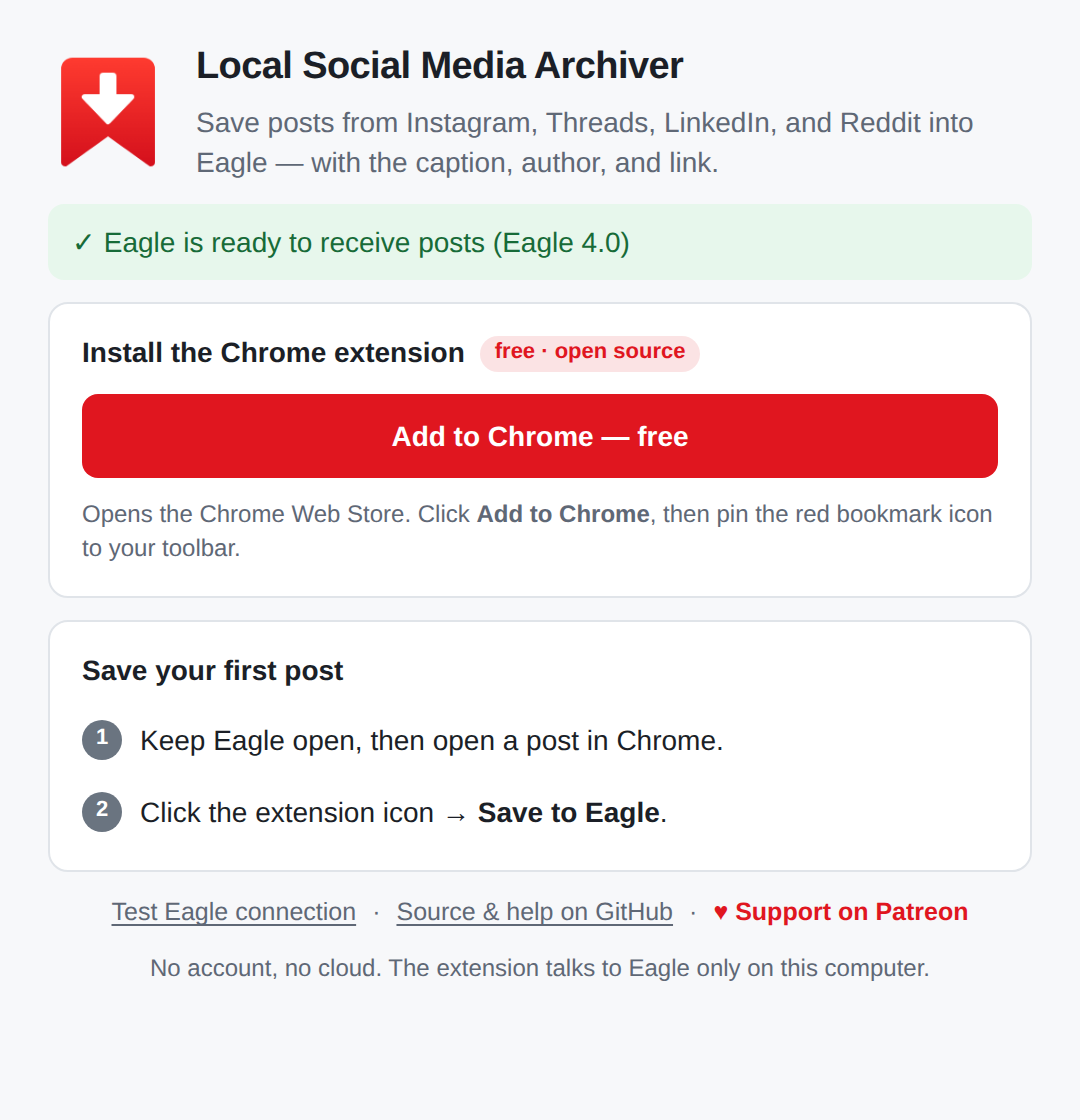
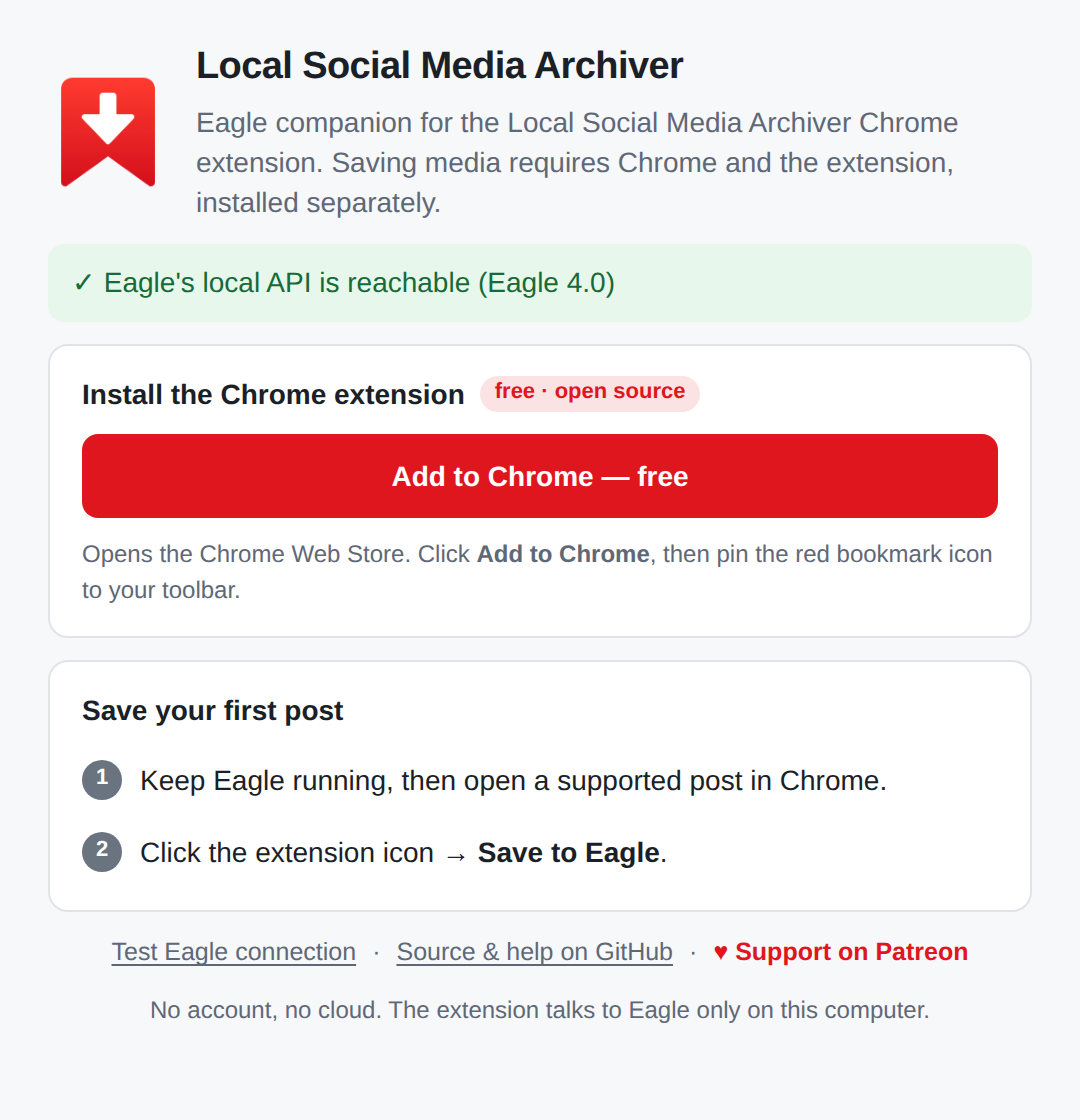
Eagle Companion 0.2.3: address Plugin Center review
- Companion copy states it is the companion for the Chrome extension
  and that saving requires Chrome and the separately installed extension
- Connection test reports only that Eagle's local API is reachable
- Listing rewritten from the reviewer's suggested copy, limited to the
  extension's verifiable behavior; "I feel lucky" marked experimental
- Cover headline "Save supported social media to Eagle" plus the
  Chrome + extension requirement, replacing "Save any post"

Claude-Session: https://claude.ai/code/session_01BWzGfyfB5TgAkvLPHxc4Ut

Changed region(s): [[0.0611, 0.0312, 0.9472, 0.9062]]

diff --git a/eagle-companion/index.html b/eagle-companion/index.html
@@ -12,7 +12,7 @@
         <img class="logo" src="logo.png" alt="">
         <div>
           <h1>Local Social Media Archiver</h1>
-          <p class="lead">Save posts from Instagram, Threads, LinkedIn, and Reddit into Eagle — with the caption, author, and link.</p>
+          <p class="lead">Eagle companion for the Local Social Media Archiver Chrome extension. Saving media requires Chrome and the extension, installed separately.</p>
         </div>
       </header>
 
@@ -44,7 +44,7 @@
       <section class="card">
         <h2>Save your first post</h2>
         <ol class="steps plain">
-          <li><span>Keep Eagle open, then open a post in Chrome.</span></li>
+          <li><span>Keep Eagle running, then open a supported post in Chrome.</span></li>
           <li><span>Click the extension icon → <strong>Save to Eagle</strong>.</span></li>
         </ol>
       </section>

diff --git a/eagle-companion/js/plugin.js b/eagle-companion/js/plugin.js
@@ -39,7 +39,7 @@ async function testConnection() {
     const payload = await response.json();
     if (!response.ok || payload.status !== 'success') throw new Error(payload.message || 'Eagle API returned an error.');
     const version = payload.data?.version ? ` (Eagle ${payload.data.version})` : '';
-    setStatus(`✓ Eagle is ready to receive posts${version}`, 'success');
+    setStatus(`✓ Eagle's local API is reachable${version}`, 'success');
   } catch (error) {
     setStatus(`Could not reach Eagle locally. Keep Eagle open, then try again.\n${error.message}`, 'error');
   }

diff --git a/docs/eagle-marketplace.md b/docs/eagle-marketplace.md
@@ -1,42 +1,53 @@
-# Eagle Plugin Center listing (draft)
+# Eagle Plugin Center listing
 
-Working copy for the submission form. Keep it in sync with the companion UI.
+Copy for the submission form. Keep it in sync with the companion UI (`eagle-companion/`) and the featured image.
+
+Review history: 0.2.2 was rejected because the listing did not say that saving needs Chrome and a separately installed extension, and the cover promised "any post". 0.2.3 addresses both.
 
 **Name:** Local Social Media Archiver (27 characters; limit is 30 characters / 6 words)
 
 **Keywords (max 6):** social media, instagram, linkedin, reddit, reference, browser
 
-**Short description:**
-Save posts from Instagram, Threads, LinkedIn, and Reddit into Eagle with one click, including the caption, author, and original link.
-
 **Description:**
-Local Social Media Archiver is a free, open-source Chrome extension that sends images, carousels, and videos from the post you are viewing straight into your Eagle library. Each item keeps the original post URL, the author as a tag, and the caption as its annotation.
+Set up the Local Social Media Archiver Chrome extension and check Eagle's local connection. Media saving requires Chrome and a separately installed extension.
 
-This plugin is the setup companion: it checks that Eagle is ready to receive posts and walks you through installing the extension.
+**Introduction:**
 
-- Instagram posts, carousels (up to 20 items), and Reels
-- LinkedIn images, carousels, and videos
-- Threads and Reddit posts, including full Reddit galleries
-- "I feel lucky" mode for other sites
+This is the Eagle companion plugin for Local Social Media Archiver. It provides a Chrome Web Store link for the extension, a GitHub project link, and a local Eagle connection test. Media saving is handled by a separate, free Chrome extension, which is not included in this plugin package.
 
-Private by design: no account and no server. The extension talks to Eagle only through its local API on your computer.
+Get started:
 
-Install the extension free from the Chrome Web Store: https://chromewebstore.google.com/detail/local-social-media-archiv/hbjcghkjdbmphmbgkjkhncmihcbhenjj
+1. Have Chrome installed. Open this plugin and click "Add to Chrome — free" to visit the Chrome Web Store. Install the extension and pin it to your toolbar.
+2. Keep Eagle running and click "Test Eagle connection". This test only checks whether Eagle's local API is reachable.
+3. In Chrome, open a post on a supported site, click the extension icon, and choose "Save to Eagle". Keep Eagle running while saving to Eagle.
 
-**Support the project:** https://www.patreon.com/c/d_degtyar
+What the Chrome extension saves:
+- Instagram: posts, carousels (up to 20 items), Reels, and Stories
+- LinkedIn: images, carousels, and videos
+- Threads: post images and videos
+- Reddit: images, galleries, and videos (Reddit serves video and audio separately, so saved Reddit videos have no sound)
+
+Each item imported into Eagle keeps the original post link, the platform and author as tags, and the caption as a note. The extension also offers "Save to Downloads", which saves the files and a post.txt note to your Downloads folder.
+
+"I feel lucky" is an experimental option for other websites. It asks permission for one site at a time and may not find media on every page.
+
+Privacy: no account and no developer server. The extension sends items only to Eagle's local API on your computer (localhost:41595); media files are downloaded from the sites that host them.
+
+Project and help: https://github.com/d-degtyar/Local-Social-Media-Archiver
+Chrome extension: https://chromewebstore.google.com/detail/local-social-media-archiv/hbjcghkjdbmphmbgkjkhncmihcbhenjj
 
 **Support contact:** https://github.com/d-degtyar/Local-Social-Media-Archiver/issues
 
-**Screenshots to prepare (at least 3):**
-1. The companion window with a green "Eagle is ready" status.
-2. The Chrome popup on an Instagram carousel.
-3. The imported items in Eagle, showing the tags, annotation, and source link.
+**Support the project:** https://www.patreon.com/c/d_degtyar
 
 **Featured image:** `docs/store/eagle-featured-1800x1200.png` (minimum is 1560 × 1040)
 
-**Change Log (0.2.2):**
-First release on the Eagle Plugin Center.
-- Checks that Eagle is ready to receive posts from the browser.
-- One-click install of the free Chrome extension from the Chrome Web Store.
-- The extension saves images, full carousels (up to 20 items), Reels, and Stories from Instagram, plus posts from Threads, LinkedIn, and Reddit, with the caption, author tag, and original link.
-- Works locally: no account, no cloud, no analytics.
+**Change Log (0.2.3):**
+- Clearer setup: the plugin now states that saving media requires Chrome and the separately installed Local Social Media Archiver extension.
+- The connection test reports only whether Eagle's local API is reachable.
+- Updated store description and cover to list the supported sites.
+
+**Screenshots:**
+1. The companion window (`docs/store/eagle-companion.png`, `docs/store/eagle-companion-dark.png`).
+2. The Chrome popup (`docs/store/screenshot-1280x800.png`).
+3. Imported items in Eagle, showing tags, the note, and the source link (capture from Eagle).

diff --git a/CHANGELOG.md b/CHANGELOG.md
@@ -5,6 +5,10 @@
 - Save to Downloads writes a readable `post.txt` (author, post link, caption, saved date, file list) instead of `post.json`.
 - Outside the extension: support links (Patreon, Telegram) in Eagle Companion, README, and the GitHub Sponsor button.
 
+## Eagle Companion 0.2.3
+
+- States that saving media requires Chrome and the separately installed extension; the connection test reports only that Eagle's local API is reachable (Plugin Center review feedback).
+
 ## Eagle Companion 0.2.1 / 0.2.2
 
 - One-click install from the Chrome Web Store; the Load unpacked steps are no longer shown.
